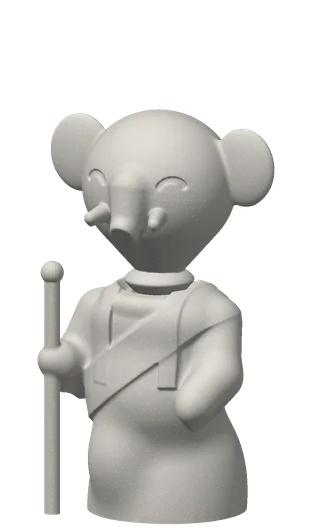
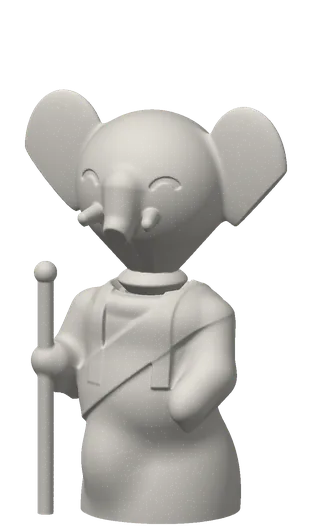
feat: eight creature heads; elephant and penguin reworked (D-032)
34 heads: adds unicorn, cyclops, minotaur, ghost, mummy, dragon, elf, orc.

diff --git a/assets/buddies.js b/assets/buddies.js
@@ -70,7 +70,23 @@
     giraffe:   { name: "The Giraffe",   t: [0, -1, 1, -2],   tag: "For the one who saw it coming from a long way off.",
                  practice: "Bring your head down to where everyone else is for one conversation today." },
     jester:    { name: "The Jester",    t: [0, 2, -1, 2],    tag: "For the one who says the true thing as a joke.",
-                 practice: "Say one true thing today without the joke. The bells can stay on." }
+                 practice: "Say one true thing today without the joke. The bells can stay on." },
+    unicorn:   { name: "The Unicorn",   t: [1, -1, 2, 2],    tag: "For the one who is told they can't be real, and turns up anyway.",
+                 practice: "Do one thing today exactly the way you would if nobody was watching." },
+    cyclops:   { name: "The Cyclops",   t: [0, 0, -2, -1],   tag: "For the one who can only look at one thing at a time.",
+                 practice: "Pick the one thing. Look at it until it is done." },
+    minotaur:  { name: "The Minotaur",  t: [1, -1, 0, -1],   tag: "For the one who knows the way out and stays to help.",
+                 practice: "Walk someone through the part you already know by heart." },
+    ghost:     { name: "The Ghost",     t: [-1, -2, 2, -1],  tag: "For the one who was here the whole time.",
+                 practice: "Say one thing in the next meeting before anyone asks you." },
+    mummy:     { name: "The Mummy",     t: [-1, 1, -1, 1],   tag: "For the one holding it together, loosely.",
+                 practice: "Unwind one thing you wrapped up too tight." },
+    dragon:    { name: "The Dragon",    t: [2, -2, 0, 1],    tag: "For the one sitting on a pile of unfinished projects.",
+                 practice: "Pick one treasure from the hoard and give it away finished." },
+    elf:       { name: "The Elf",       t: [-2, 0, 1, -2],   tag: "For the one who makes the thing and lets someone else hand it over.",
+                 practice: "Sign your work today." },
+    orc:       { name: "The Orc",       t: [-1, 0, -2, 2],   tag: "For the one who looks cross and is only thinking.",
+                 practice: "Tell one person what the face means." }
   };
 
   // Each answer nudges the traits: [energy, company, heart, wildness].

diff --git a/index.html b/index.html
@@ -4,7 +4,7 @@
 <meta charset="utf-8">
 <meta name="viewport" content="width=device-width, initial-scale=1">
 <title>Quiet Company | desk buddies that listen</title>
-<meta name="description" content="Desk buddies that listen. One calm monk, three poses, twenty-six oversized heads that swap. Original 3D-printed figures, printed to order.">
+<meta name="description" content="Desk buddies that listen. One calm monk, three poses, thirty-four oversized heads that swap. Original 3D-printed figures, printed to order.">
 <meta name="theme-color" content="#ffffff">
 <link rel="icon" href="assets/favicon.svg" type="image/svg+xml">
 <link rel="preconnect" href="https://fonts.googleapis.com">
@@ -40,7 +40,7 @@
   <section class="hero">
     <p class="eyebrow">Quiet Company</p>
     <h1>Good listeners.</h1>
-    <p class="lede">Tell your buddy the problem out loud. You will often have the answer before you finish explaining. One calm monk, three poses, twenty-six oversized heads that lift off and swap.</p>
+    <p class="lede">Tell your buddy the problem out loud. You will often have the answer before you finish explaining. One calm monk, three poses, thirty-four oversized heads that lift off and swap.</p>
     <div class="rule" aria-hidden="true"></div>
     <p><a class="button" href="quiz.html">Find your buddy</a></p>
     <p class="availability">Seven questions, about a minute. Shop opening soon. <a href="credits.html#contact">Questions</a>.</p>
@@ -56,7 +56,7 @@
 
   <section id="heads" class="section">
     <div class="section-head">
-      <h2>Twenty-six heads</h2>
+      <h2>Thirty-four heads</h2>
       <p>All original, all a size too big for the body. Pick one, or let the quiz pick.</p>
     </div>
     <div class="tiles" id="js-gallery"></div>

diff --git a/credits.html b/credits.html
@@ -39,7 +39,7 @@
 
   <h2 id="models">Models</h2>
   <p>Original 3D models are licensed under <a href="https://creativecommons.org/licenses/by-nc/4.0/">CC BY-NC 4.0</a>. Print, remix, and share for yourself, with credit. No commercial selling.</p>
-  <p>The line-up is one monk body in three poses and 26 heads, all original and all by Quiet Company. They were generated from code with AI assistance; no scan, third-party model or existing character was used. The full scope is in the repository's <a href="LICENSE">LICENSE</a> file.</p>
+  <p>The line-up is one monk body in three poses and 34 heads, all original and all by Quiet Company. They were generated from code with AI assistance; no scan, third-party model or existing character was used. The full scope is in the repository's <a href="LICENSE">LICENSE</a> file.</p>
 
   <h2>Cards, brand, photography</h2>
   <p>All rights reserved. The insight cards, the quiz and its wording, card art, brand, renders and photographs are not covered by the model licence.</p>

diff --git a/assets/site.js b/assets/site.js
@@ -5,7 +5,8 @@
   "use strict";
   var S = window.QUIET_COMPANY;
   // Seated height in mm for the heads that stand well above the rest; standing and walking add 25.
-  var TALL_MM = { alien: 128, jester: 131, bunny: 140, wizard: 140, giraffe: 148 };
+  var TALL_MM = { cyclops: 122, husky: 123, lion: 123, robot: 123, dragon: 125, ghost: 125, minotaur: 126, orc: 126,
+                  alien: 128, jester: 131, unicorn: 137, bunny: 140, elf: 140, wizard: 140, giraffe: 148 };
   var HEAD_IDS = Object.keys(S.HEADS), BODY_IDS = Object.keys(S.BODIES);
 
   function el(tag, cls, text) {

diff --git a/README.md b/README.md
@@ -2,7 +2,7 @@
 
 Original 3D-printable figurines and the brand kit behind them. The idea: small, wry sculptures that borrow the calm of Buddhist iconography without borrowing anyone's copyrighted characters.
 
-v1 is one calm monk in three poses (sitting, standing, walking) and 26 original heads that lift off and swap: archetypes like the robot and the wizard, and animals like the frog and the owl. A short quiz picks one for you.
+v1 is one calm monk in three poses (sitting, standing, walking) and 34 original heads that lift off and swap: archetypes like the robot and the wizard, and animals like the frog and the owl. A short quiz picks one for you.
 
 This repository is the public half of the project. The business repo is private.
 
